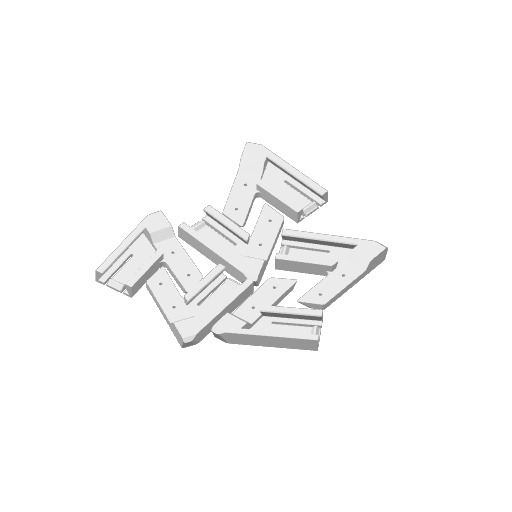
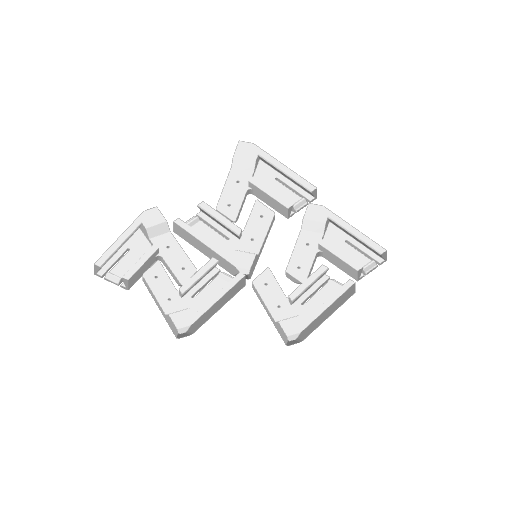
Update chute-core plate, add external-brackets plate
- Replace the chute-core+funnel-bracket plate with the latest layout
  (now 1 chute core, 5 left + 3 right funnel slides across 3 plates).
- Add the external-brackets plate (4× each of bottom-vertical, side,
  and cover), cross-linked to the ext-bracket-* catalog parts.
- process_plates now skips decorative label objects (text_shape).

Changed region(s): [[0.1875, 0.2812, 0.75, 0.6875], [0.3125, 0.5938, 0.3438, 0.625]]

diff --git a/slicer/filament.py b/slicer/filament.py
@@ -467,7 +467,8 @@ def process_plates(manifest):
                 thumbs.append(f"/plate-thumbs/{tn}")
             cfg = z.read("Metadata/model_settings.config").decode("utf-8", "ignore")
         raw = re.findall(r'<object\b[^>]*>\s*<metadata key="name" value="([^"]+)"', cfg)
-        counts = collections.Counter(raw)
+        # Skip decorative/label objects (e.g. embossed "text_shape"); real parts are .stl
+        counts = collections.Counter(n for n in raw if n.lower().endswith(".stl"))
         parts = []
         for nm, c in counts.items():
             pretty = nm.rsplit(".stl", 1)[0]